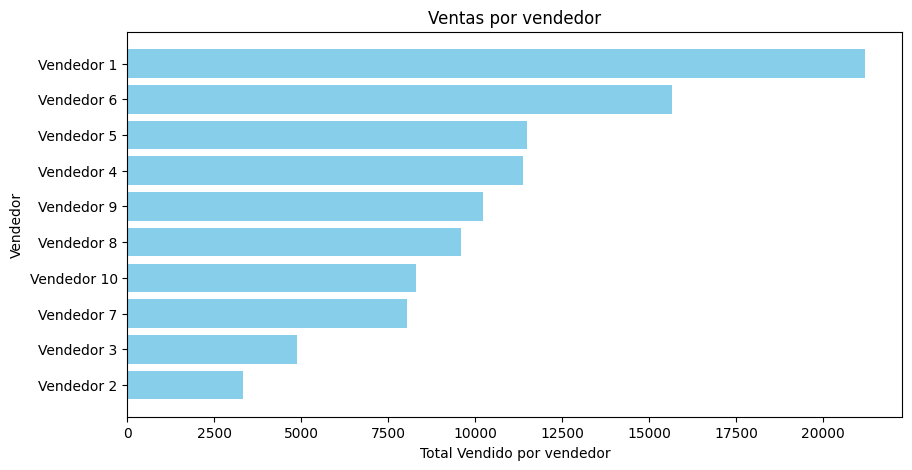
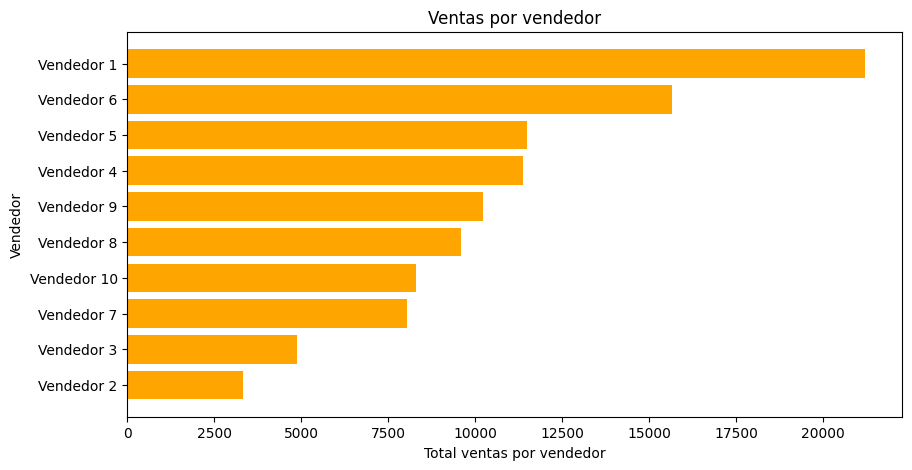
agregar gráficos a reporte de ventas

Changed region(s): [[0.1228, 0.0894, 0.9518, 0.8638], [0.4605, 0.9532, 0.6754, 0.983]]

diff --git a/limpieza.py b/limpieza.py
@@ -6,54 +6,62 @@ from thefuzz import fuzz, process
 
 directorio = r"C:\Users\leoac\Desktop\Análisis de datos (Avanzado)\Modulo 10\proyecto"
 
-os.chdir(directorio) #asignar directorio (change directorio)
+os.chdir(directorio)
 
-#print("Directorio de trabajo", os.getcwd()) verificar directorio de trabajo
+
+# print("Directorio de trabajo", os.getcwd())
 
 df_ventas = pd.read_csv("Ventas.csv")
 
 df_vendedores = pd.read_csv("Vendedores.csv")
 
 # print(df_ventas.info())
+
 # print(df_vendedores.info())
 
-#Limpiar nombres de empresas
-df_ventas["empresa"] = df_ventas["empresa"].str.lower().str.strip() #lower minusculas y elimina espacios al final y al inicio
+# Limpiar nombres de empresas
+
+df_ventas["empresa"] = df_ventas["empresa"].str.lower().str.strip()
+
 df_vendedores["empresa"] = df_vendedores["empresa"].str.lower().str.strip()
 
-def encontrar_mejor_match(nombre,lista_empresas):
-    mejor_match, score = process.extractOne(nombre, lista_empresas, scorer=fuzz.token_sort_ratio) #extrae nombre coincidente con lista_empresas y le asigna un score de coincidencia
+def encontrar_mejor_match(nombre, lista_empresas):
+    mejor_match, score = process.extractOne(nombre, lista_empresas, scorer=fuzz.token_sort_ratio)
     
-    # print(score)
+    #print(score)
     return mejor_match if score > 50 else None
 
-#recorre empresa de df_ventas y aplica la función lambda encontrando mejor match, donde x es el nombre de la empresa en df_ventas
-#y compara con empresa de df_vendedores en formato lista
-df_ventas["empresa_corregida"] = df_ventas["empresa"].apply(lambda x: encontrar_mejor_match(x, df_vendedores["empresa"].tolist()))
 
-# print(df_ventas.head(10))
+df_ventas["empresa_corregida"] = df_ventas["empresa"].apply(lambda x : encontrar_mejor_match(x, df_vendedores["empresa"].tolist()))
 
-df_final = df_ventas.merge(df_vendedores,left_on="empresa_corregida",right_on="empresa", how="left").drop(columns=["empresa_y"])
 
-#corregir nombres de las columnas
-df_final.rename(columns={"empresa_x":"empresa_original"}, inplace=True)
+#print(df_ventas.tail(10))
 
-# print(df_final.head())
+
+df_final = df_ventas.merge(df_vendedores, left_on="empresa_corregida", right_on="empresa", how="left").drop(columns=["empresa_y"])
+
+
+# corregir nombres de las columnas
+
+df_final.rename(columns={"empresa_x": "empresa_original"}, inplace=True)
+
+#print(df_final.head())
 
 df_sin_match = df_final[df_final["empresa_corregida"].isna()]
 
 # print(df_sin_match.head())
 
-#Guardar los reportes de los 2 dataframes
 
-df_final.to_csv("resultados_cruce.csv",index=False)
-df_sin_match.to_csv("registros_sin_cruce.csv",index=False)
+# guardar los reportes de los 2 dataframes
 
-#SEGUNDA ETAPA
+df_final.to_csv("resultados_cruce.csv", index=False)
+
+df_sin_match.to_csv("registros_sin_cruce.csv", index=False)
+
+
+# SEGUNDA ETAPA
 
 import matplotlib.pyplot as plt
-
-#Ventas por empresa
 
 # Ventas por empresa
 
@@ -62,38 +70,45 @@ ventas_por_empresa = df_final.groupby("empresa_corregida")["monto"].sum().reset_
 ventas_por_empresa.sort_values(by="monto", ascending=False, inplace=True)
 
 
-#Ventas por vendedor
 ventas_por_vendedor= df_final.groupby("vendedor")["monto"].sum().reset_index()
 
 ventas_por_vendedor.sort_values(by="monto", ascending=False, inplace=True)
 
-#gráfico de ventas por empresa y vendedor
+
+# gráficos de ventas por empresa
+
 plt.figure(figsize=(10,5))
+
 plt.barh(ventas_por_empresa["empresa_corregida"], ventas_por_empresa["monto"], color="skyblue")
-plt.xlabel("Total Vendido por empresa")
+plt.xlabel("Total vendido por empresa")
 plt.ylabel("Empresa")
 plt.title("Ventas por empresa")
 plt.gca().invert_yaxis()
-plt.savefig("ventas_por_empresa.png", bbox_inches = "tight")
+plt.savefig("Ventas_por_empresa.png", bbox_inches="tight")
 plt.close()
 
+
+# gráficos de ventas por vendedor
 plt.figure(figsize=(10,5))
-plt.barh(ventas_por_vendedor["vendedor"], ventas_por_vendedor["monto"], color="skyblue")
-plt.xlabel("Total Vendido por vendedor")
+
+plt.barh(ventas_por_vendedor["vendedor"], ventas_por_vendedor["monto"], color="orange")
+plt.xlabel("Total ventas por vendedor")
 plt.ylabel("Vendedor")
 plt.title("Ventas por vendedor")
 plt.gca().invert_yaxis()
-plt.savefig("ventas_por_vendedor.png", bbox_inches = "tight")
+plt.savefig("Ventas_por_vendedor.png", bbox_inches="tight")
 plt.close()
 
-#CREAR REPORTE PDF
+# CREAR  REPORTE PDF
+
 from fpdf import FPDF
 from datetime import datetime
 
-#instancia de configuración inicial del documento pdf
+# Instancia y configuración inicial del documento pdf
 pdf = FPDF()
-pdf.set_auto_page_break(auto = True, margin=15)
+pdf.set_auto_page_break(auto=True, margin=15)
 pdf.add_page()
+
 
 # Agregar titulo al documento PDF
 
@@ -115,8 +130,9 @@ def dibujar_tabla(titulo, dataset, columna):
     for index, row in dataset.iterrows():
         pdf.cell(100, 10, row[columna], border=1)
         pdf.cell(50, 10, f"$ {row["monto"]:.2f}", border=1, ln=True)
-
+        
     pdf.ln(5)
+    
 
 # llamar función para ventas por empresa
 dibujar_tabla("Monto Vendido por empresa", ventas_por_empresa, "empresa_corregida")
@@ -126,5 +142,21 @@ dibujar_tabla("Monto Vendido por Vendedor", ventas_por_vendedor, "vendedor")
 
 
 
+# agregar gráficos al reporte
+pdf.add_page()
+pdf.set_font("Arial", size=14, style="B")
+pdf.cell(200, 10, "Gráfico: Ventas por empresa", ln=True, align="C")
+pdf.image("Ventas_por_empresa.png", x=25, w=150)
+
+pdf.ln(10)
+
+pdf.cell(200, 10, "Gráfico: Ventas por vendedor", ln=True, align="C")
+pdf.image("Ventas_por_vendedor.png", x=25, w=150)
+pdf.ln(10)
+
+
+
+
 # IMPRIMIR DOCUMENTO PDF
 pdf.output("reporte_ventas.pdf")
+        
